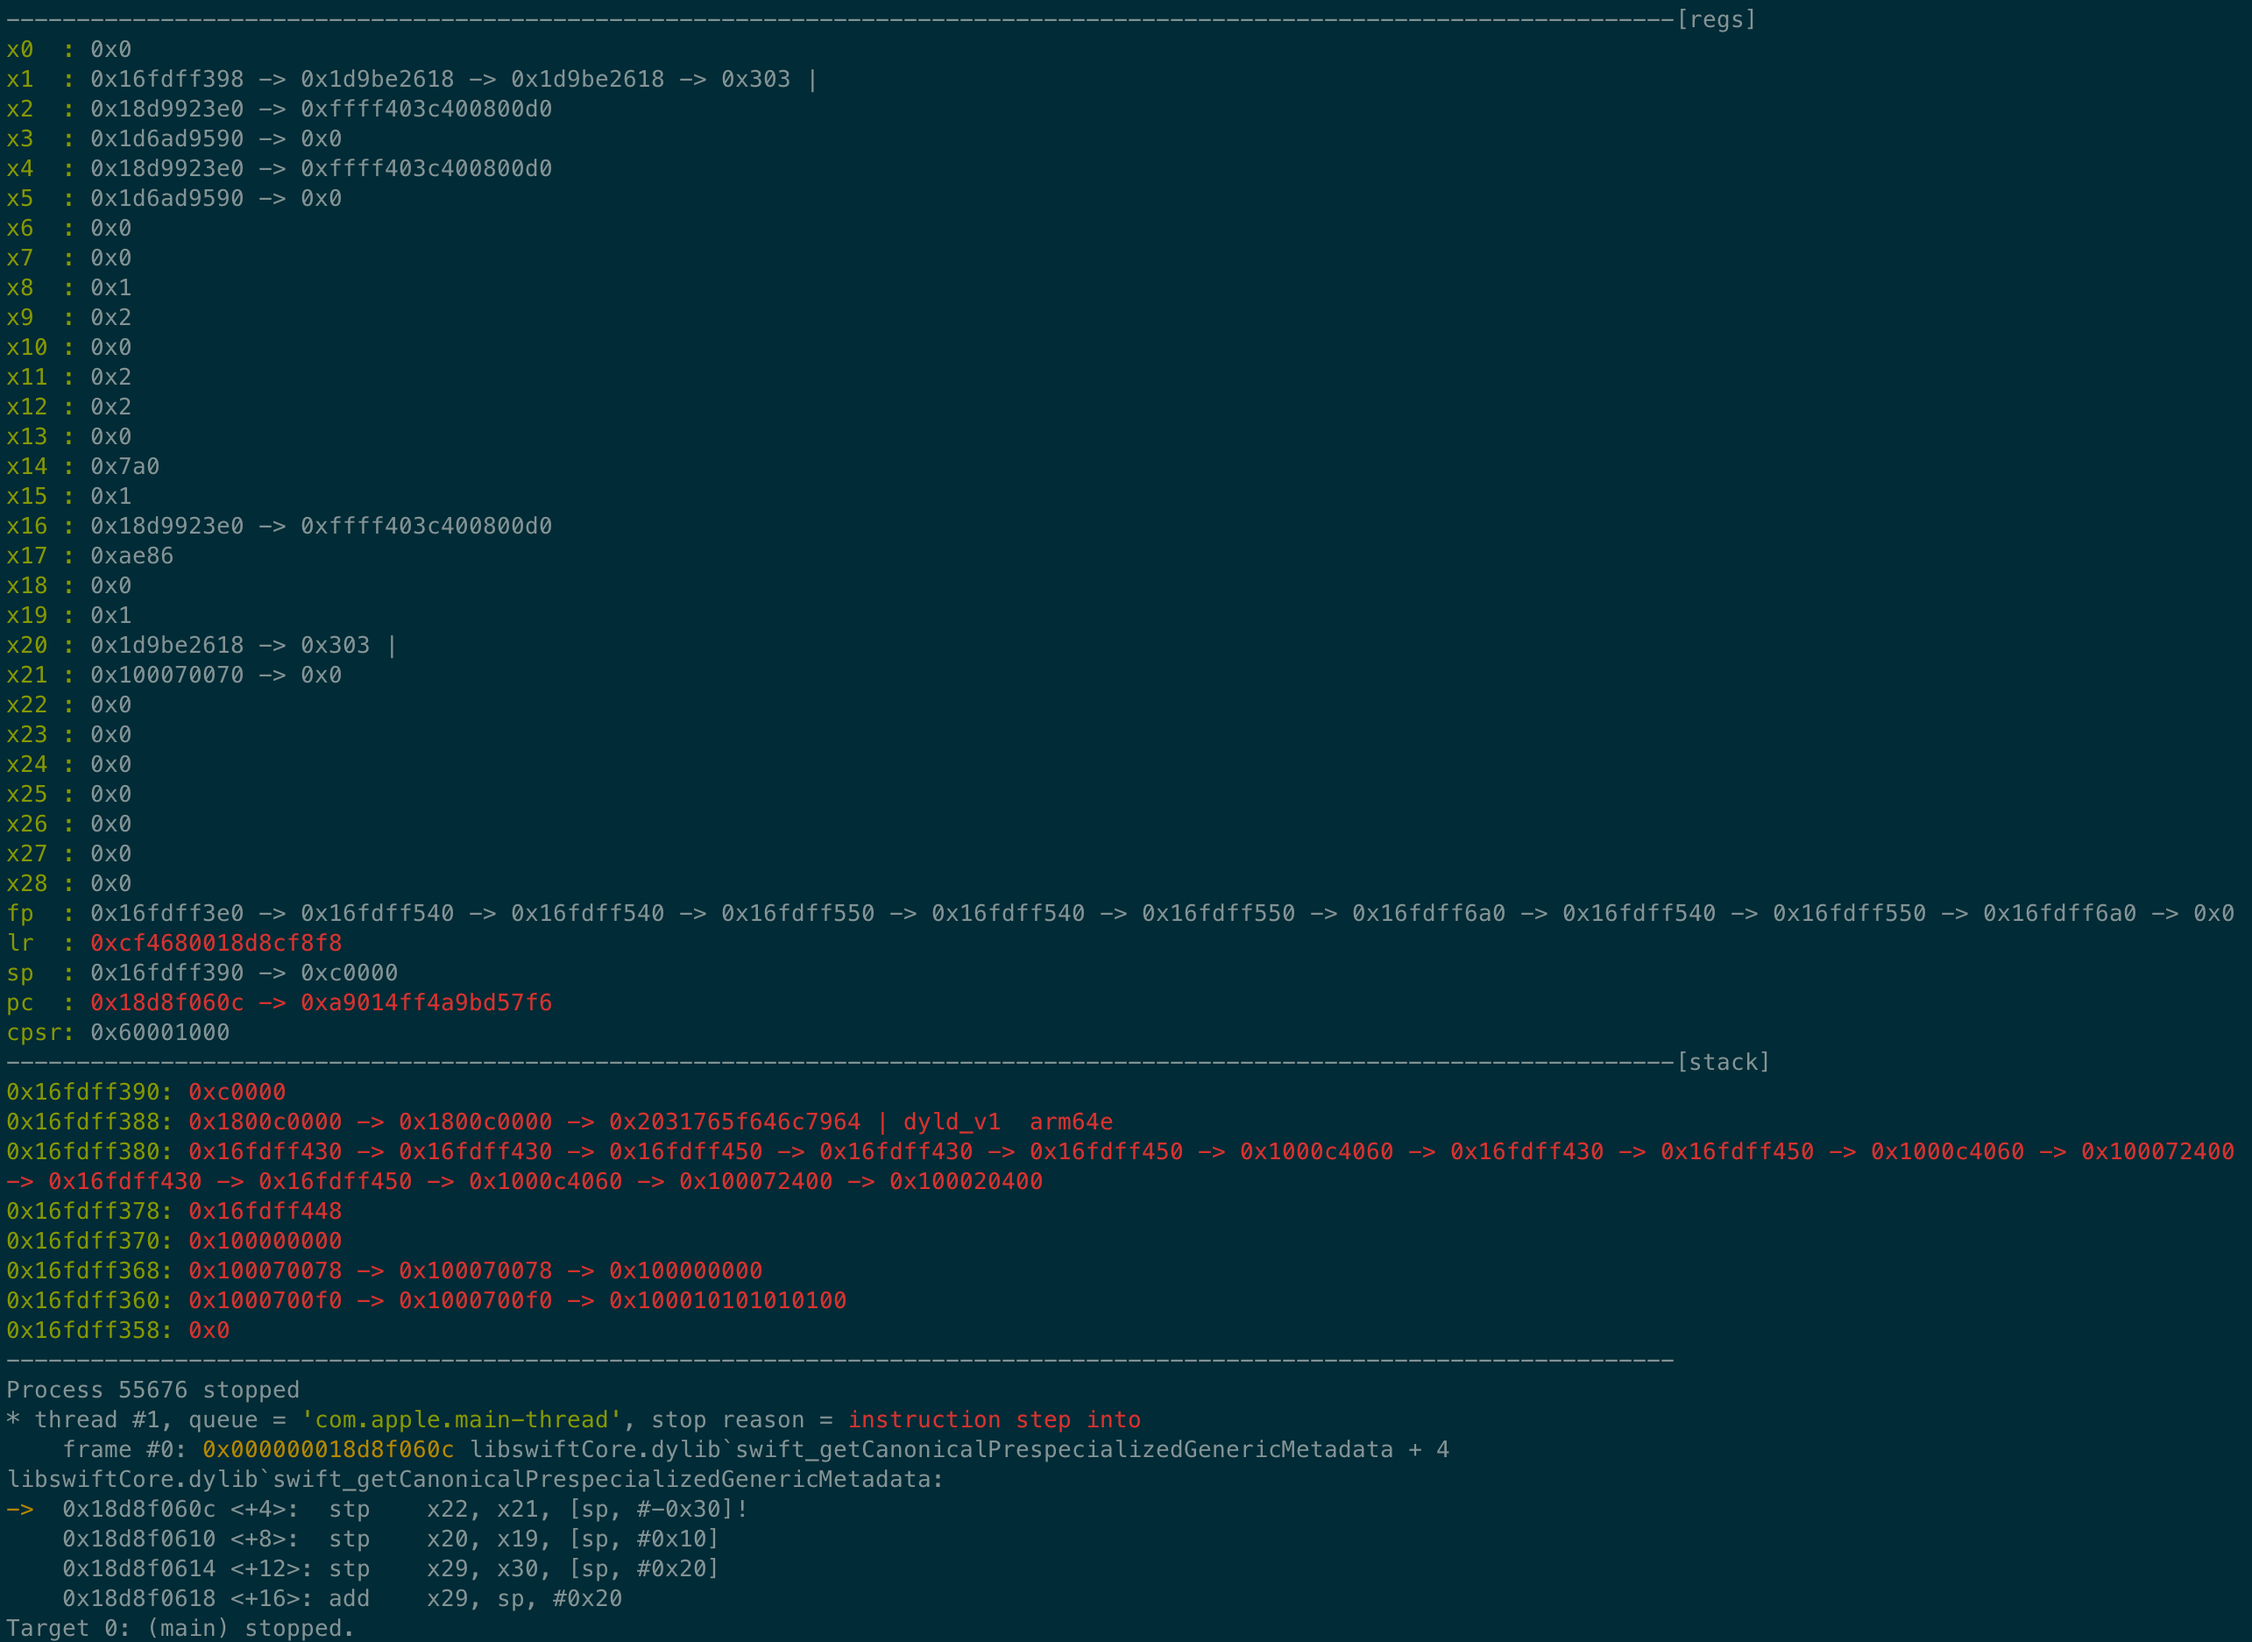
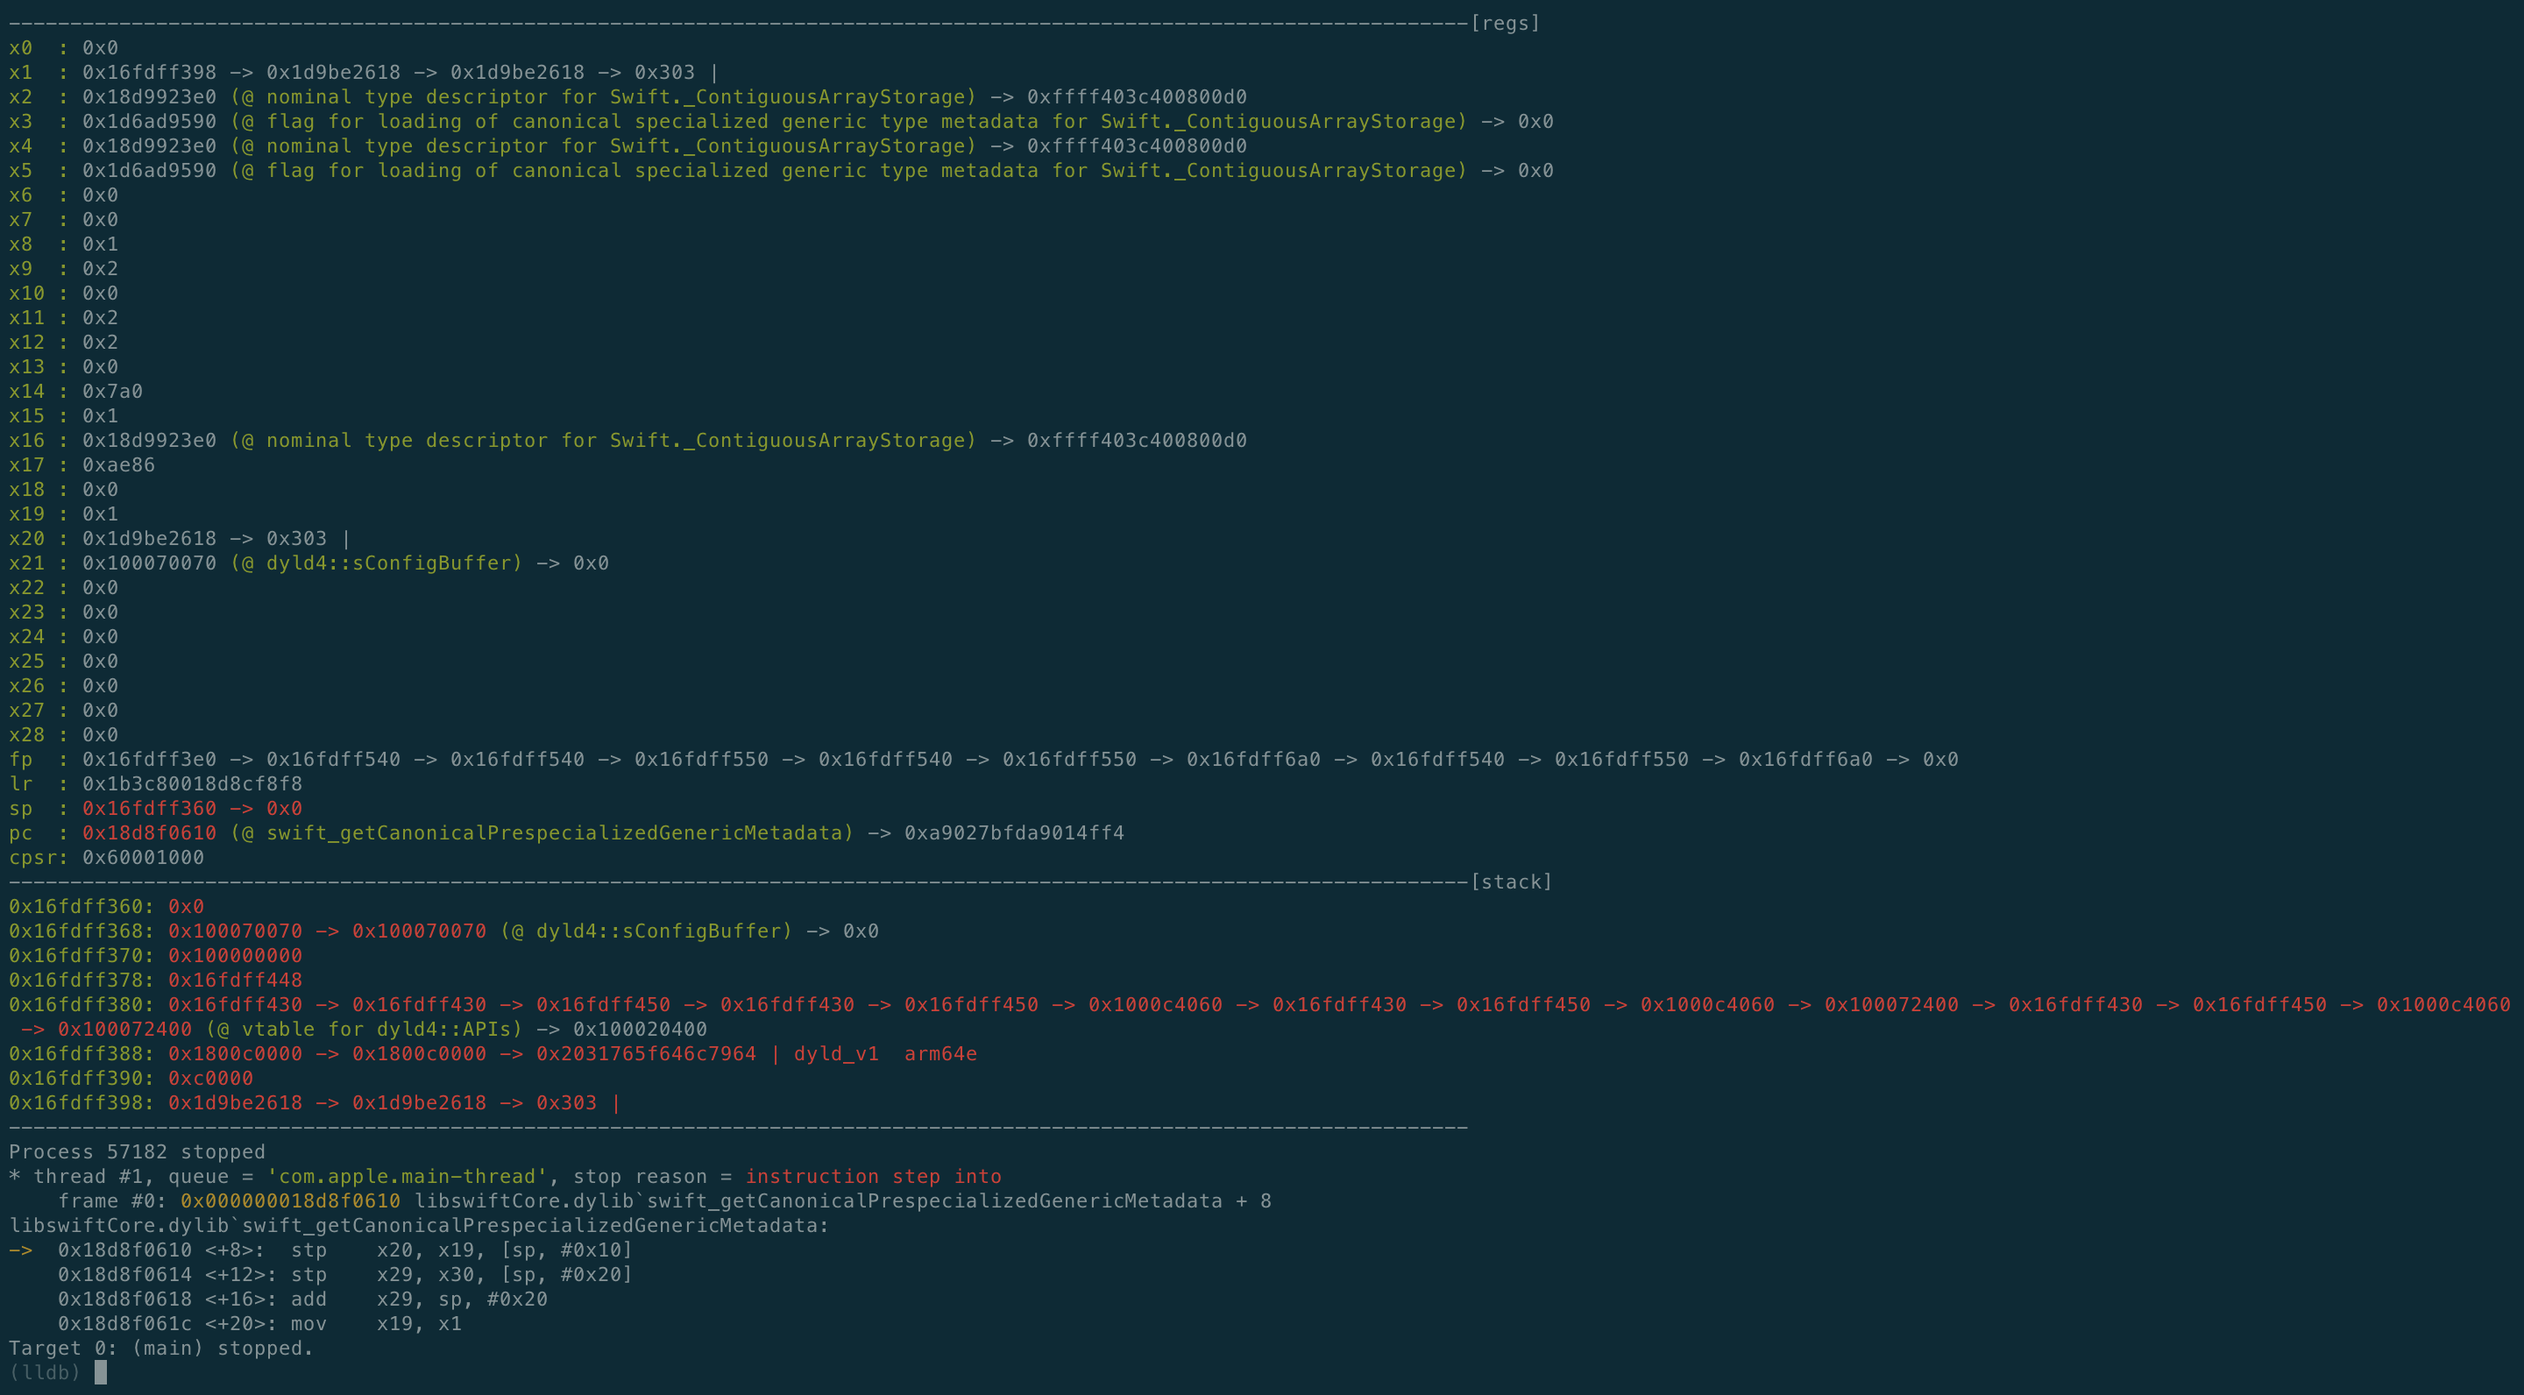
Bugfix & Lookup referenced symbols

diff --git a/llef.py b/llef.py
@@ -27,6 +27,11 @@ def dereference_memory(mem_addr, str, depth=0):
     if depth == 8:
         return True, ""
 
+    # Print the symbol name
+    symbol_name = lldb.SBAddress(mem_addr, lldb.debugger.GetSelectedTarget()).GetSymbol().GetName()
+    if symbol_name is not None:
+        str +=  COLORS["GREEN"] +  " (@ " + symbol_name + ")" + COLORS["RESET"]
+
     error = lldb.SBError()
     mem = lldb.debugger.GetSelectedTarget().GetProcess().ReadMemory(mem_addr, 8, error)
 
@@ -106,7 +111,7 @@ def print_stack_trace(sp):
     str = COLORS["RESET"] + "-----------------------------------------------------------------------------------------------------------------------[stack]\n"
 
     for i in range(0, 8):
-        s = sp - i * 8
+        s = sp + i * 8
         str += COLORS["GREEN"] + hex(s) + ": " + COLORS["RED"] + dereference_memory(s, "")[1][4:] + "\n"
 
     return str
